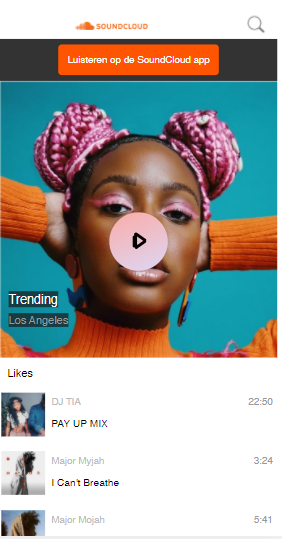
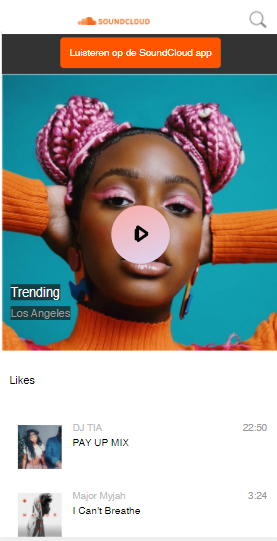
Add files via upload

diff --git a/styles/style.css b/styles/style.css
@@ -133,7 +133,7 @@ h2, a {
   height: 60px;
   width:60px;
   align-items: center;
-  margin:2px;
+  margin:10px;
 }
 
 li {
@@ -185,6 +185,8 @@ bottom:5px; left:5px;
   top:4vw;
   white-space: nowrap;
   overflow:hidden;
+  padding: 5px 0 0 0;
+  margin:0;
 }
 strong{
   font-weight:lighter;
@@ -220,10 +222,11 @@ a:hover {
   color: #bcbcbc;
   flex-grow: 1;
   padding:0 0 10px 0;
+  margin:12px;
 }
 
 .items li {
-  margin-bottom: 0.5em;
+  margin-bottom: 0.8em;
 }
 
 .items h3, .info11 {
@@ -232,17 +235,18 @@ a:hover {
 
 .items li>div {
   padding: 0.3em;
-  margin:0.1em;
   width: 100%;
   display: flex;
   flex-direction: column;
   justify-content: space-between;
+  margin:0;
 }
 
 .items li>div>div {
   display: flex;
   align-items: center;
   justify-content: space-between;
+  margin:0;
 }
 
 h3 {
